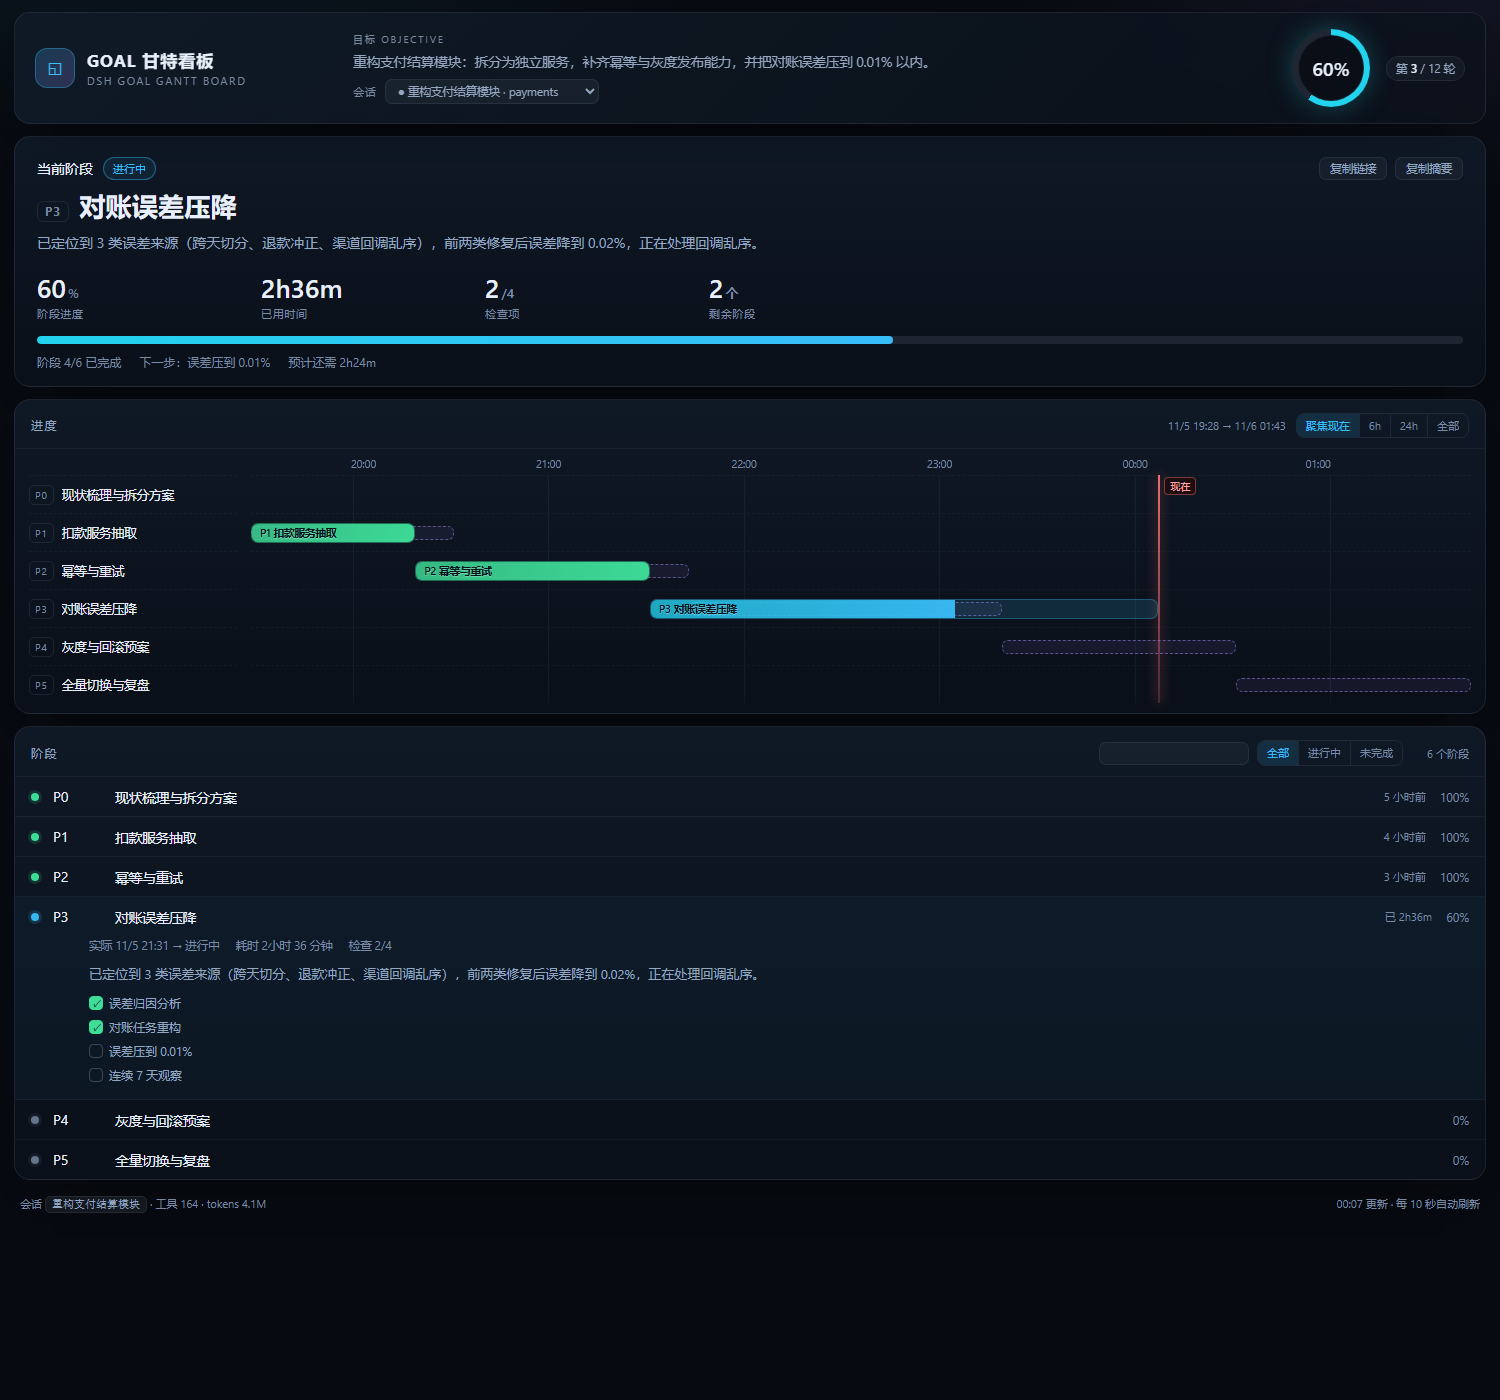
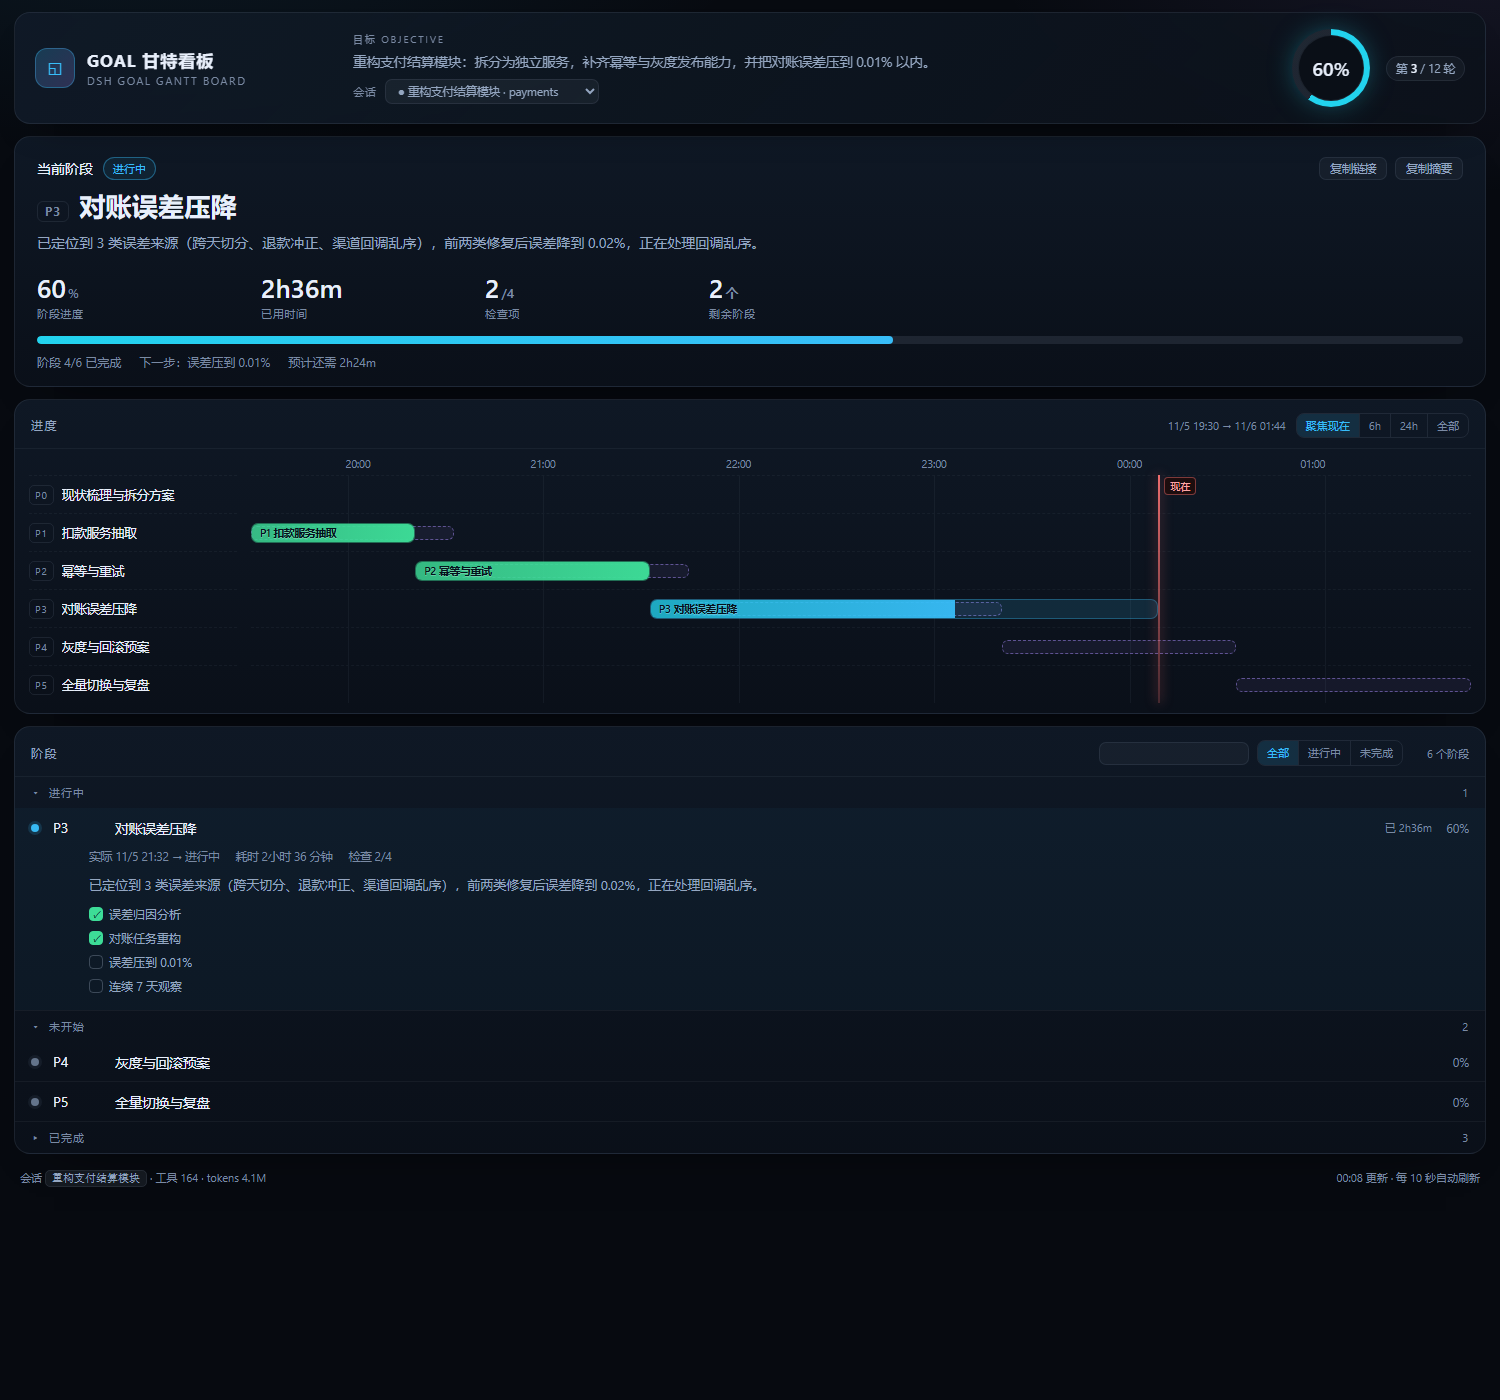
feat: group phases by status
- list is split into In progress / Not started / Blocked / Done with counts
- the Done bucket is collapsed by default; clicking a header toggles it and the
  choice is persisted next to the expanded-phase state
- old rail/chapter helpers removed earlier are unaffected; tests assert the
  grouping, the collapsed default and that the active row stays visible

Changed region(s): [[0.0, 0.5529, 0.4907, 0.8907], [0.92, 0.5529, 0.9813, 0.645], [0.8893, 0.8293, 0.9813, 0.86]]

diff --git a/lib/assets/board.js b/lib/assets/board.js
@@ -47,6 +47,7 @@
       exampleLabel: '阶段配置示例', copyExample: '复制示例',
       filterAll: '全部', filterActive: '进行中', filterOpen: '未完成',
       copySummary: '复制摘要', summaryHint: '把当前进度复制成 Markdown',
+      groupActive: '进行中', groupPending: '未开始', groupBlocked: '阻塞', groupDone: '已完成',
       justNow: '刚刚', minutesAgo: function (n) { return n + ' 分钟前'; },
       hoursAgo: function (n) { return n + ' 小时前'; }, daysAgo: function (n) { return n + ' 天前'; },
       running: function (d) { return '已 ' + d; },
@@ -90,6 +91,7 @@
       exampleLabel: 'Example config', copyExample: 'Copy example',
       filterAll: 'All', filterActive: 'Active', filterOpen: 'Open',
       copySummary: 'Copy summary', summaryHint: 'Copy progress as Markdown',
+      groupActive: 'In progress', groupPending: 'Not started', groupBlocked: 'Blocked', groupDone: 'Done',
       justNow: 'just now', minutesAgo: function (n) { return n + 'm ago'; },
       hoursAgo: function (n) { return n + 'h ago'; }, daysAgo: function (n) { return n + 'd ago'; },
       running: function (d) { return d + ' in'; },
@@ -123,6 +125,7 @@
   var VIEW_MODE = 'now';
   var FILTER = { status: 'all', q: '' };
   var OPEN = {};
+  var GROUPS = { active: true, pending: true, blocked: true, done: false };
   var FOCUS_ID = null;
 
   var esc = function (s) {
@@ -535,51 +538,68 @@
     return true;
   }
 
+  function phaseHtml(p) {
+    var st = statusOf(p.status);
+    var seg = currentSegment(p);
+    var checks = seg.checks || [];
+    var doneChecks = checks.filter(function (c) { return c.done; }).length;
+    var open = OPEN[p.id] || p.status === 'active';
+
+    var detail = '';
+    if (open) {
+      detail = '<div class="pdetail" id="pdetail-' + esc(p.id) + '">' +
+        '<div class="pmeta">' +
+          (p.startedAt ? '<span>' + T.actual + esc(fmtRange(p.startedAt, p.endedAt)) + '</span>' : '') +
+          (p.durationMs ? '<span>' + T.dur + esc(fmtDur(p.durationMs)) + '</span>' : '') +
+          (checks.length ? '<span>' + T.checksN + doneChecks + '/' + checks.length + '</span>' : '') +
+          (p.segments && p.segments.length > 1 ? '<span>' + T.segs(p.segments.length) + '</span>' : '') +
+        '</div>' +
+        '<p class="psummary">' + esc(seg.summary || p.summary || T.noSummaryShort) + '</p>' +
+        (checks.length ? '<div class="checks">' + checks.map(function (c) {
+          return '<span class="check' + (c.done ? ' on' : '') + '"><i class="bx">' + (c.done ? '✓' : '') + '</i>' + esc(c.label) + '</span>';
+        }).join('') + '</div>' : '') +
+        ((p.deliverables || []).length ? '<div class="deliv">' + p.deliverables.map(function (x) {
+          return '<a href="#" data-copy="' + esc(x.path) + '" title="' + esc(x.path) + '">' + esc(x.label) + '</a>';
+        }).join('') + '</div>' : '') +
+        '</div>';
+    }
+
+    return '<div class="phase' + (open ? ' open' : '') + '" data-card="' + esc(p.id) + '">' +
+      '<div class="prow" role="button" tabindex="0" aria-expanded="' + open +
+        '" aria-controls="pdetail-' + esc(p.id) + '">' +
+        '<i class="dot ' + st.cls + '"></i>' +
+        '<span class="gid">' + esc(p.id) + '</span>' +
+        '<span class="ptitle">' + esc(p.title) + '</span>' +
+        '<span class="pwhen">' + esc(
+          p.status === 'active' ? T.running(fmtShort(p.durationMs || 0)) : fmtAgo(p.endedAt || p.startedAt)
+        ) + '</span>' +
+        '<span class="ppct">' + (p.progress || 0) + '%</span>' +
+      '</div>' + detail + '</div>';
+  }
+
   function renderPhases(d) {
     var host = document.getElementById('phases');
     if (!host) return;
 
     var list = d.phases.filter(matchesFilter);
-    var html = list.map(function (p) {
-      var st = statusOf(p.status);
-      var seg = currentSegment(p);
-      var checks = seg.checks || [];
-      var doneChecks = checks.filter(function (c) { return c.done; }).length;
-      var open = OPEN[p.id] || p.status === 'active';
+    var buckets = { active: [], pending: [], blocked: [], done: [] };
+    list.forEach(function (p) { (buckets[p.status] || buckets.pending).push(p); });
 
-      var detail = '';
-      if (open) {
-        detail = '<div class="pdetail" id="pdetail-' + esc(p.id) + '">' +
-          '<div class="pmeta">' +
-            (p.startedAt ? '<span>' + T.actual + esc(fmtRange(p.startedAt, p.endedAt)) + '</span>' : '') +
-            (p.durationMs ? '<span>' + T.dur + esc(fmtDur(p.durationMs)) + '</span>' : '') +
-            (checks.length ? '<span>' + T.checksN + doneChecks + '/' + checks.length + '</span>' : '') +
-            (p.segments && p.segments.length > 1 ? '<span>' + T.segs(p.segments.length) + '</span>' : '') +
-          '</div>' +
-          '<p class="psummary">' + esc(seg.summary || p.summary || T.noSummaryShort) + '</p>' +
-          (checks.length ? '<div class="checks">' + checks.map(function (c) {
-            return '<span class="check' + (c.done ? ' on' : '') + '"><i class="bx">' + (c.done ? '✓' : '') + '</i>' + esc(c.label) + '</span>';
-          }).join('') + '</div>' : '') +
-          ((p.deliverables || []).length ? '<div class="deliv">' + p.deliverables.map(function (x) {
-            return '<a href="#" data-copy="' + esc(x.path) + '" title="' + esc(x.path) + '">' + esc(x.label) + '</a>';
-          }).join('') + '</div>' : '') +
-          '</div>';
-      }
-
-      return '<div class="phase' + (open ? ' open' : '') + '" data-card="' + esc(p.id) + '">' +
-        '<div class="prow" role="button" tabindex="0" aria-expanded="' + open +
-          '" aria-controls="pdetail-' + esc(p.id) + '">' +
-          '<i class="dot ' + st.cls + '"></i>' +
-          '<span class="gid">' + esc(p.id) + '</span>' +
-          '<span class="ptitle">' + esc(p.title) + '</span>' +
-          '<span class="pwhen">' + esc(
-            p.status === 'active'
-              ? T.running(fmtShort(p.durationMs || 0))
-              : fmtAgo(p.endedAt || p.startedAt)
-          ) + '</span>' +
-          '<span class="ppct">' + (p.progress || 0) + '%</span>' +
-        '</div>' + detail + '</div>';
-    }).join('');
+    var labels = { active: T.groupActive, pending: T.groupPending, blocked: T.groupBlocked, done: T.groupDone };
+    var html = '';
+    ['active', 'pending', 'blocked', 'done'].forEach(function (key) {
+      var items = buckets[key];
+      if (!items.length) return;
+      var open = GROUPS[key] !== false;
+      html += '<div class="group" data-group="' + key + '">' +
+        '<button type="button" class="group-head" data-group="' + key + '" aria-expanded="' + open + '">' +
+          '<span class="gchev">' + (open ? '▾' : '▸') + '</span>' +
+          '<span class="gname">' + esc(labels[key]) + '</span>' +
+          '<span class="gcount">' + items.length + '</span>' +
+        '</button>' +
+        (open ? items.map(phaseHtml).join('') : '') +
+        '</div>';
+    });
 
     host.innerHTML = html || '<div class="empty-filter">' + esc(T.noMatch) + '</div>';
     document.getElementById('phases-hint').textContent =
@@ -606,6 +626,43 @@
         setTimeout(function () { a.textContent = old; }, 1200);
       });
     });
+
+    Array.prototype.forEach.call(host.querySelectorAll('.group-head'), function (head) {
+      head.addEventListener('click', function () {
+        var key = head.getAttribute('data-group');
+        GROUPS[key] = GROUPS[key] === false;
+        saveGroupState();
+        renderPhases(DATA);
+      });
+    });
+  }
+
+  var OPEN_KEY = 'goal-gantt:open';
+  var GROUP_KEY = 'goal-gantt:groups';
+
+  function loadOpenState() {
+    try {
+      var raw = localStorage.getItem(OPEN_KEY);
+      if (!raw) return;
+      JSON.parse(raw).forEach(function (id) { if (id) OPEN[id] = true; });
+    } catch (e) { /* 无 localStorage 或坏数据：忽略 */ }
+  }
+
+  function saveOpenState() {
+    try {
+      localStorage.setItem(OPEN_KEY, JSON.stringify(Object.keys(OPEN).filter(function (k) { return OPEN[k]; })));
+    } catch (e) { /* ignore */ }
+  }
+
+  function loadGroupState() {
+    try {
+      var raw = localStorage.getItem(GROUP_KEY);
+      if (raw) Object.assign(GROUPS, JSON.parse(raw));
+    } catch (e) { /* ignore */ }
+  }
+
+  function saveGroupState() {
+    try { localStorage.setItem(GROUP_KEY, JSON.stringify(GROUPS)); } catch (e) { /* ignore */ }
   }
 
   function applyHash() {
@@ -625,22 +682,6 @@
       if (window.history && typeof window.history.replaceState === 'function') {
         window.history.replaceState(null, '', open ? '#' + id : window.location.pathname + window.location.search);
       }
-    } catch (e) { /* ignore */ }
-  }
-
-  var OPEN_KEY = 'goal-gantt:open';
-
-  function loadOpenState() {
-    try {
-      var raw = localStorage.getItem(OPEN_KEY);
-      if (!raw) return;
-      JSON.parse(raw).forEach(function (id) { if (id) OPEN[id] = true; });
-    } catch (e) { /* 无 localStorage 或坏数据：忽略 */ }
-  }
-
-  function saveOpenState() {
-    try {
-      localStorage.setItem(OPEN_KEY, JSON.stringify(Object.keys(OPEN).filter(function (k) { return OPEN[k]; })));
     } catch (e) { /* ignore */ }
   }
 
@@ -827,6 +868,7 @@
   window.__goalGantt = { summary: buildSummary, render: render };
 
   loadOpenState();
+  loadGroupState();
 
   if (DATA) render(DATA);
   setInterval(poll, 10000);

diff --git a/lib/assets/board.css b/lib/assets/board.css
@@ -776,3 +776,19 @@ main > * { width: 100%; }
   .phases-tools { margin-right: 8px; }
   .phase-search { width: 110px; }
 }
+
+
+/* ==================================================== 阶段分组 */
+
+.group-head {
+  width: 100%; display: flex; align-items: center; gap: 8px;
+  padding: 8px 16px; border: 0; border-top: 1px solid rgba(148, 163, 184, .08);
+  background: transparent; color: var(--dim); font-family: inherit; font-size: 11px;
+  letter-spacing: .08em; cursor: pointer; text-align: left;
+}
+.group:first-child .group-head { border-top: 0; }
+.group-head:hover { color: var(--txt); background: rgba(148, 163, 184, .04); }
+.group-head:focus-visible { outline: 2px solid var(--active); outline-offset: -2px; }
+.gchev { width: 10px; color: var(--dim); }
+.gname { text-transform: uppercase; }
+.gcount { margin-left: auto; font-variant-numeric: tabular-nums; color: var(--dim); }

diff --git a/README.md b/README.md
@@ -33,7 +33,8 @@
 - **阶段清单**：每阶段一行，展开才看摘要、检查项与产出物（默认只展开进行中的那条）
 - **筛选与搜索**：全部 / 进行中 / 未完成 三档切换，加一个搜索框（按 id、标题、摘要匹配），按 `/` 直接聚焦搜索
 - **复制摘要**：一键把当前进度复制成 Markdown（状态图标 + 阶段列表 + 剩余时间），可直接贴到 issue / IM
-- **相对时间**：每行显示「5 小时前」/「已 2h36m」；展开状态记在 localStorage，刷新不丢
+- **按状态分组**：进行中 / 未开始 / 已完成 三组，已完成默认折叠（点表头展开）
+- **相对时间**：每行显示「5 小时前」/「已 2h36m」；展开状态与分组状态记在 localStorage，刷新不丢
 - 版本记录见 [CHANGELOG.md](CHANGELOG.md)
 - **距目标**：剩余阶段、轮次与预估时间，收进 Hero 底部一行
 - **内嵌渲染**：作为 main 面板直接长在 DSH 里，Shadow DOM 隔离样式；也可一键新标签打开

diff --git a/README.en.md b/README.en.md
@@ -30,7 +30,8 @@ The UI ships in Chinese and English and follows the system language (`?lang=zh` 
 - **Per-phase summaries** — summary, checks and deliverables, expanded on demand
 - **Filter and search** — All / Active / Open plus a search box (id, title, summary); press `/` to focus it
 - **Copy summary** — copies the current progress as Markdown (status icons, phase list, time left) for issues or chat
-- **Relative time** — each row shows “5h ago” or “2h36m in”; expanded rows persist in localStorage
+- **Grouped by status** — In progress / Not started / Done, with Done collapsed by default
+- **Relative time** — each row shows “5h ago” or “2h36m in”; expansion and group state persist in localStorage
 - See [CHANGELOG.md](CHANGELOG.md)
 - **Distance to goal** — remaining phases, rounds and estimated time, folded into the hero
 - **Inline rendering** — lives in the conversation view ring (`对话 / 轨迹 / 看板`), styles isolated with Shadow DOM; a standalone page is available too

diff --git a/CHANGELOG.md b/CHANGELOG.md
@@ -1,5 +1,9 @@
 # Changelog
 
+## v0.22.0 — Status groups
+- Phase list is grouped into In progress / Not started / Blocked / Done.
+- The Done group is collapsed by default; group state persists in localStorage.
+
 ## v0.20.0 — Markdown summary
 - Hero gains a “copy summary” action that produces a paste-ready Markdown block
   (status icons, phase list, time left, round counter).
